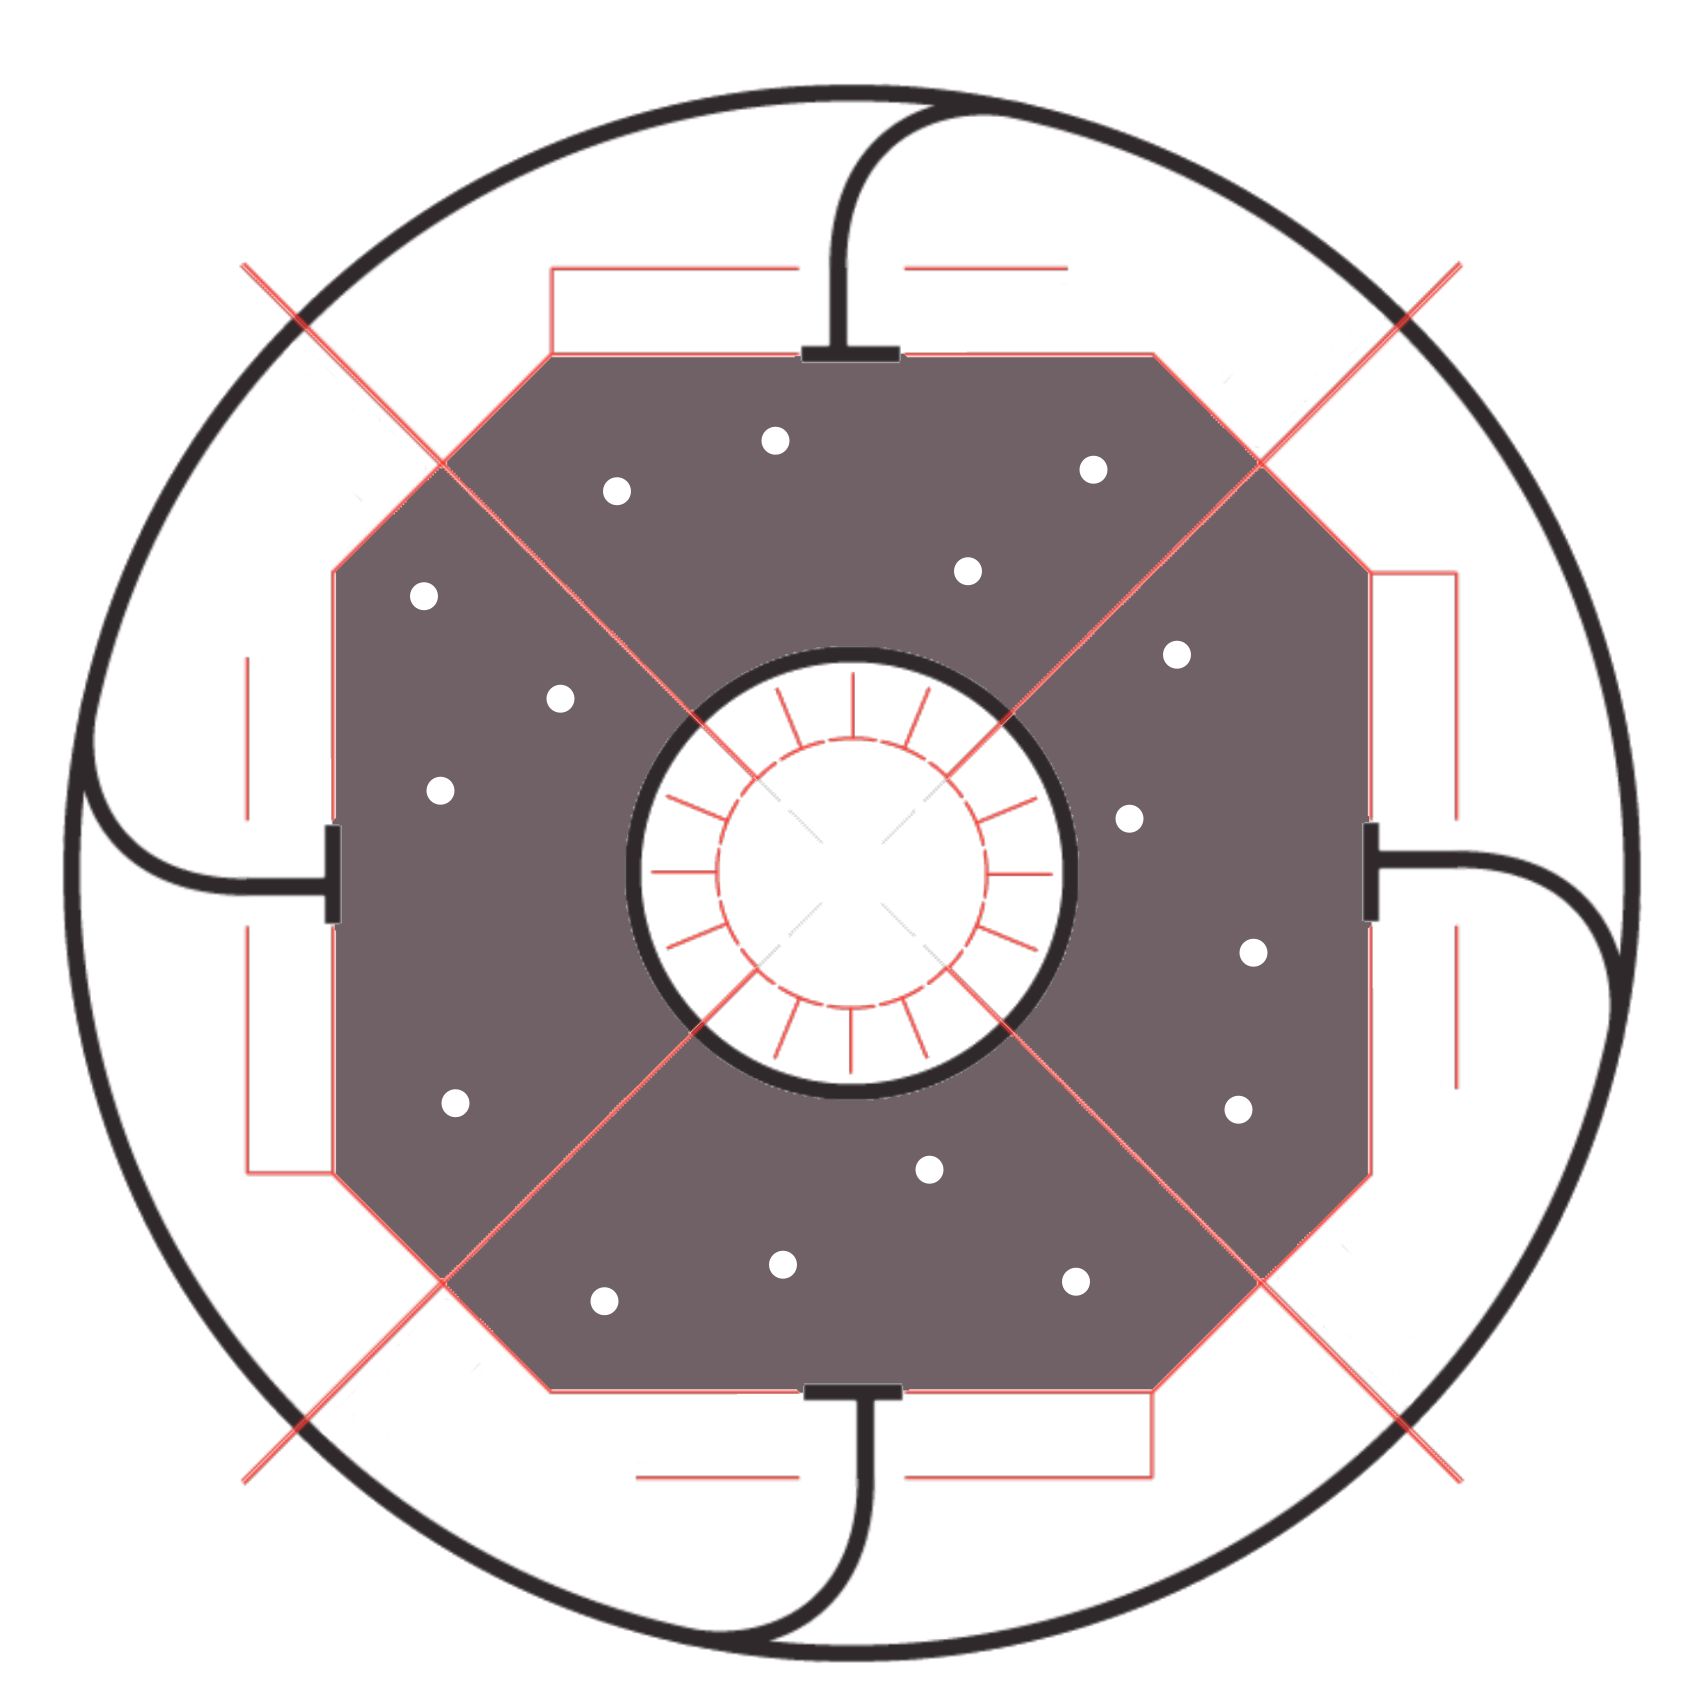
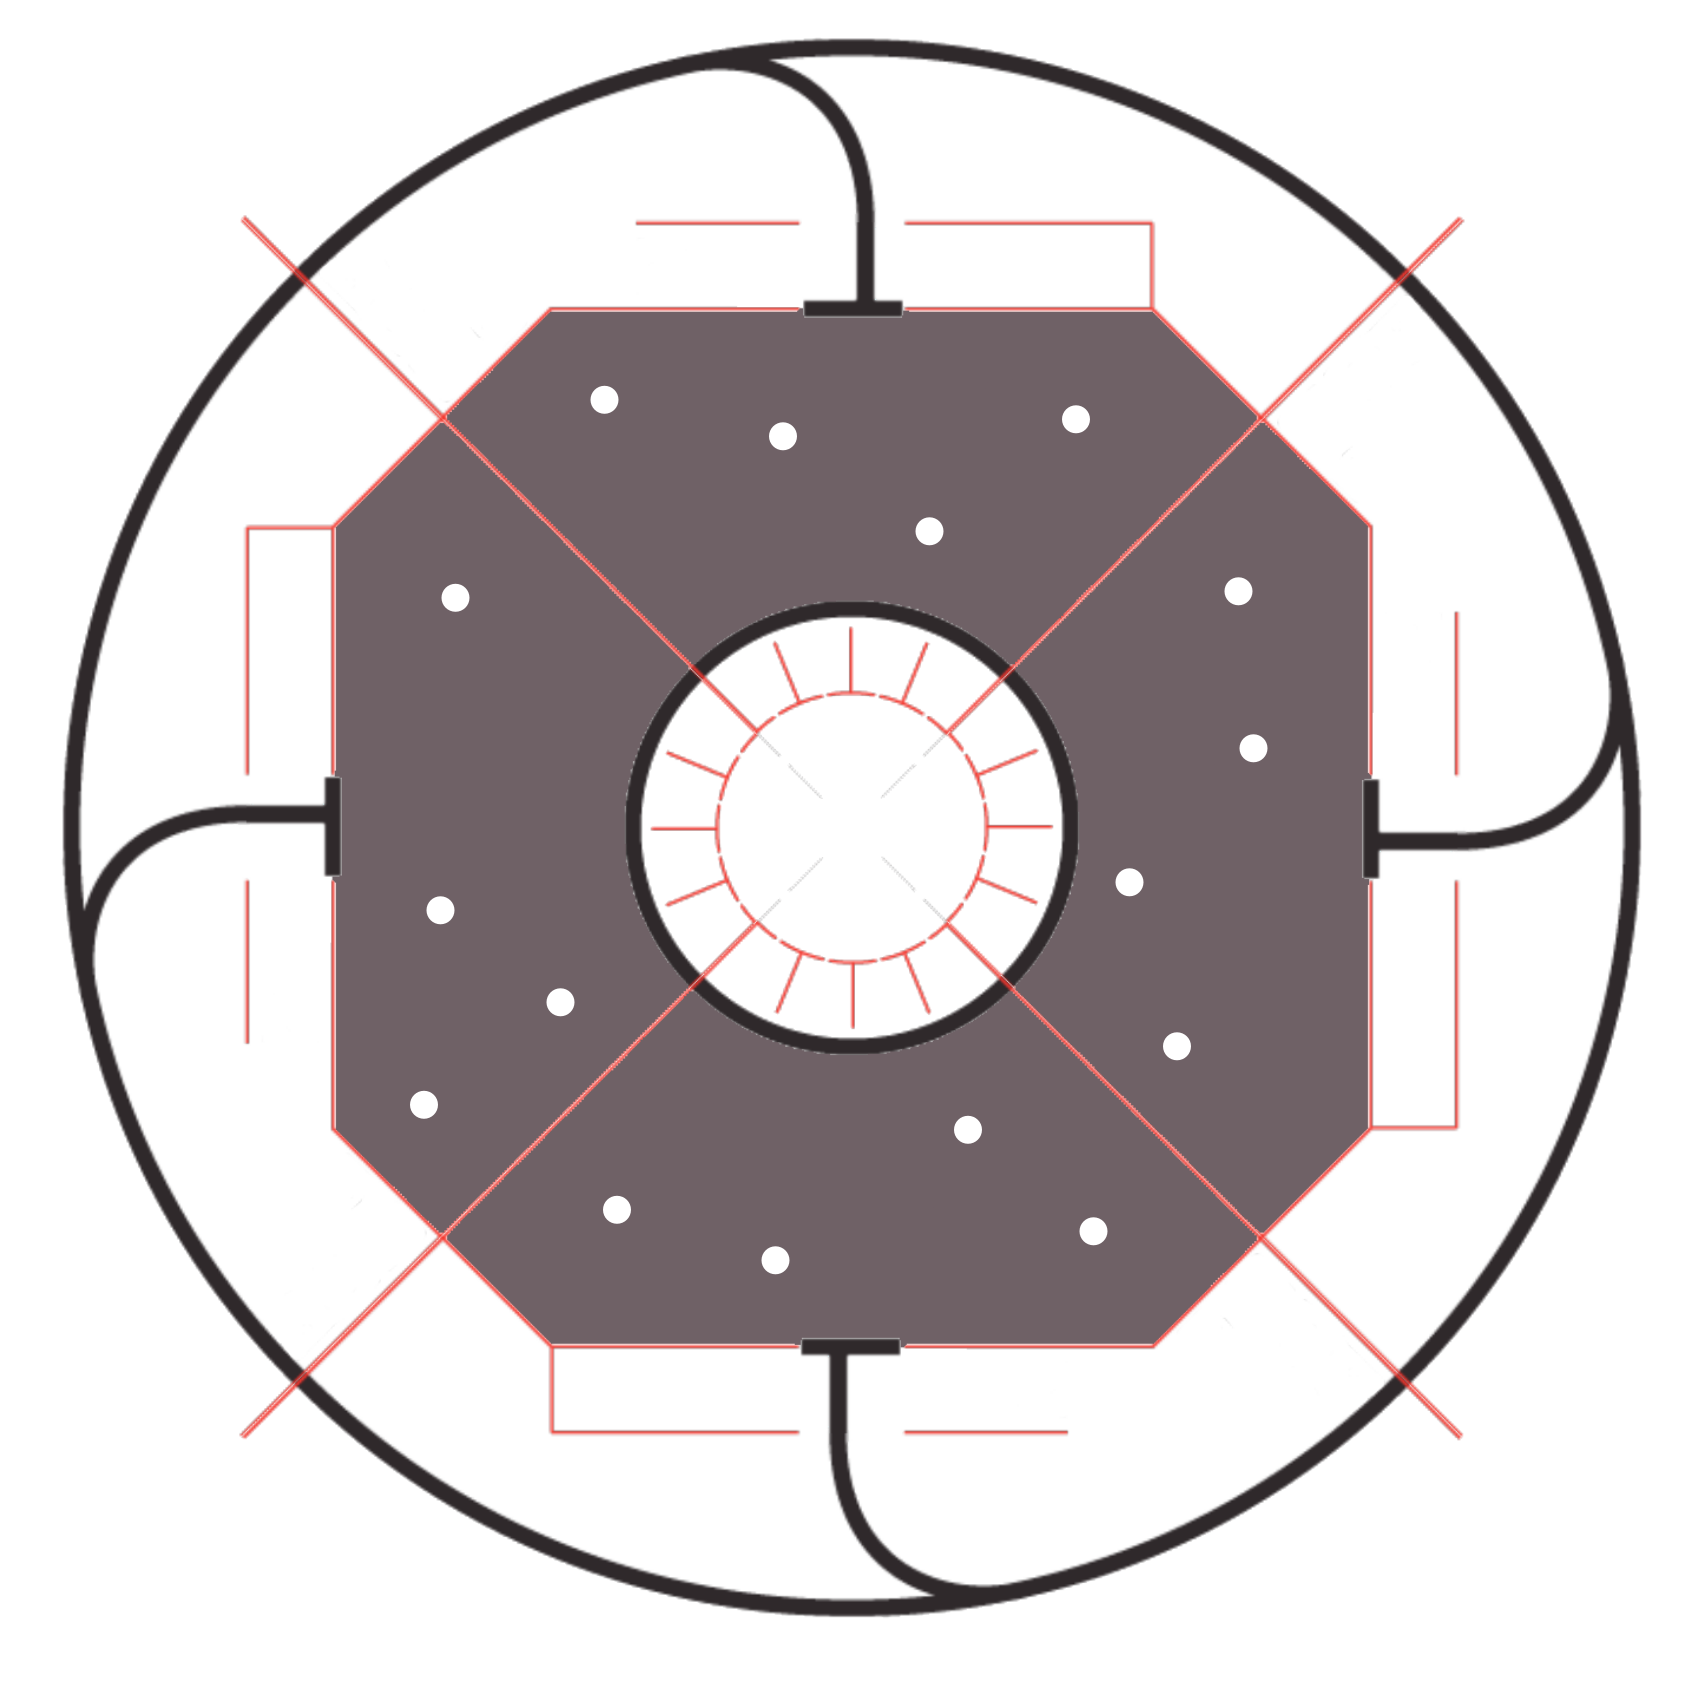
Playground now invert the y-axis of background images for a more natural interface

diff --git a/targets/playground/playground.cpp b/targets/playground/playground.cpp
@@ -154,6 +154,9 @@ int main(int argc, char *argv[])
 		QImage image(groundTextureFileName);
 		if (!image.isNull())
 		{
+			// flip vertically as y-coordinate is inverted in an image
+			image = image.mirrored();
+			// convert to a specific format and copy the underlying data to Enki
 			image = image.convertToFormat(QImage::Format_ARGB32);
 			groundTexture.width = image.width();
 			groundTexture.height = image.height();
